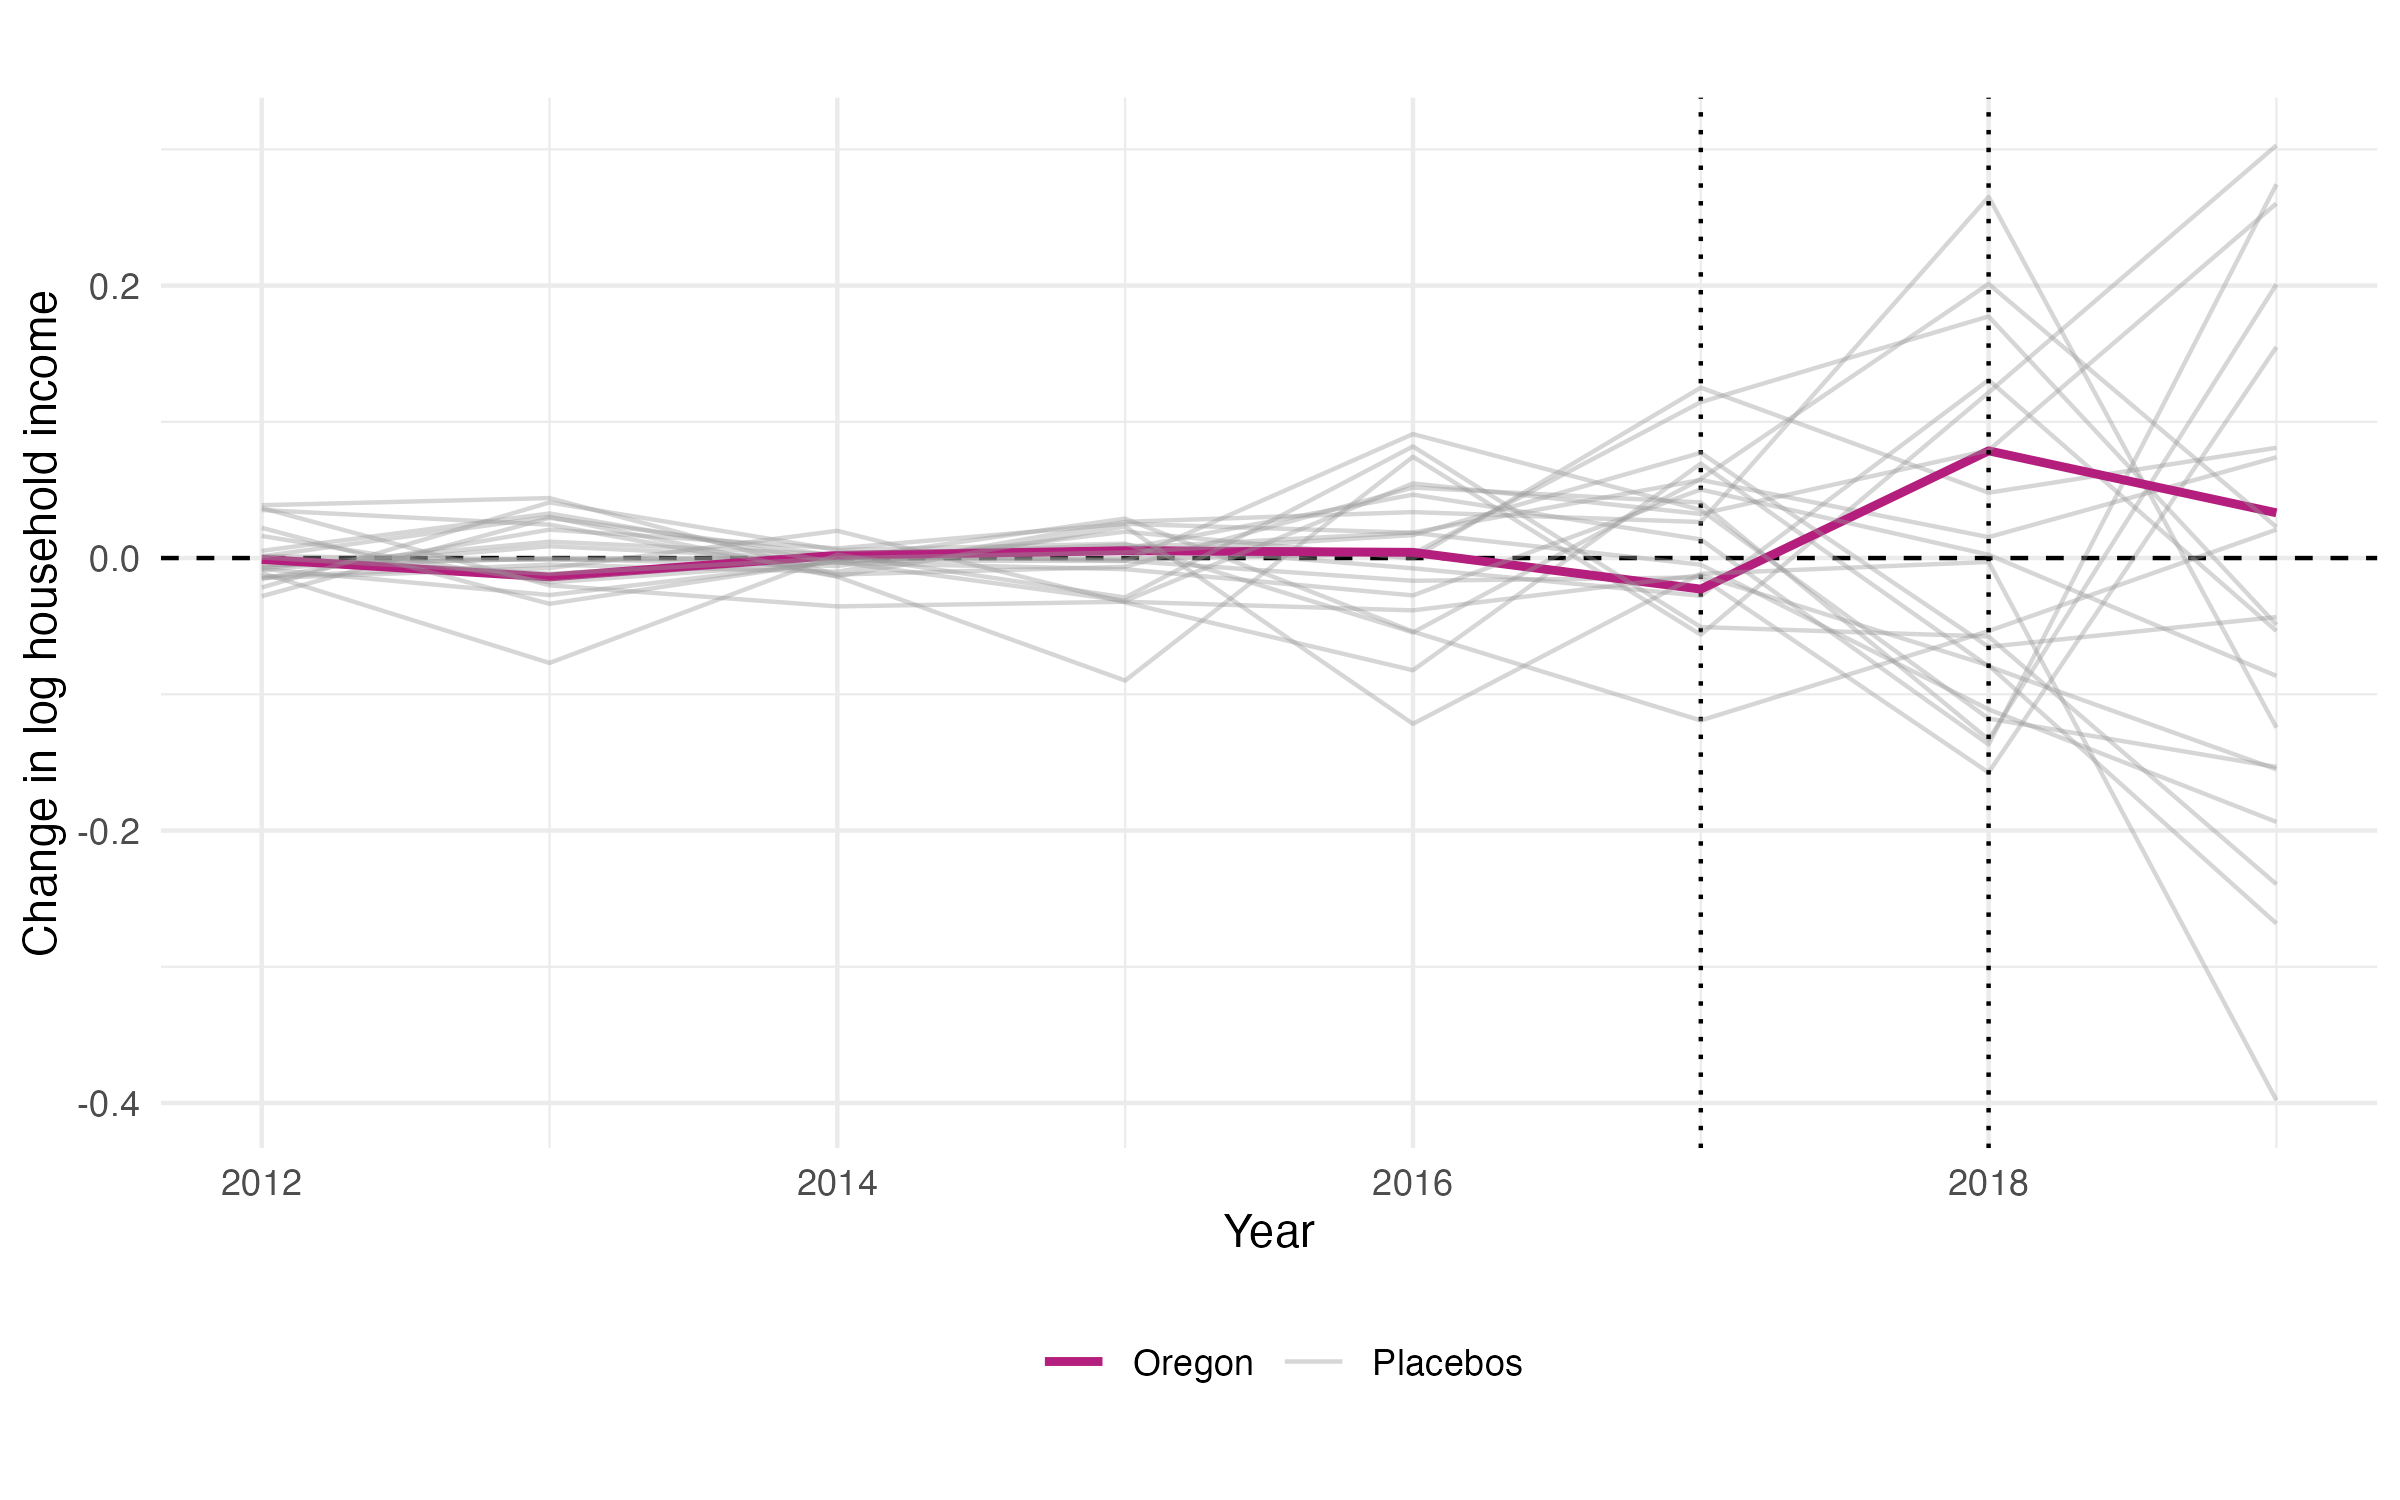
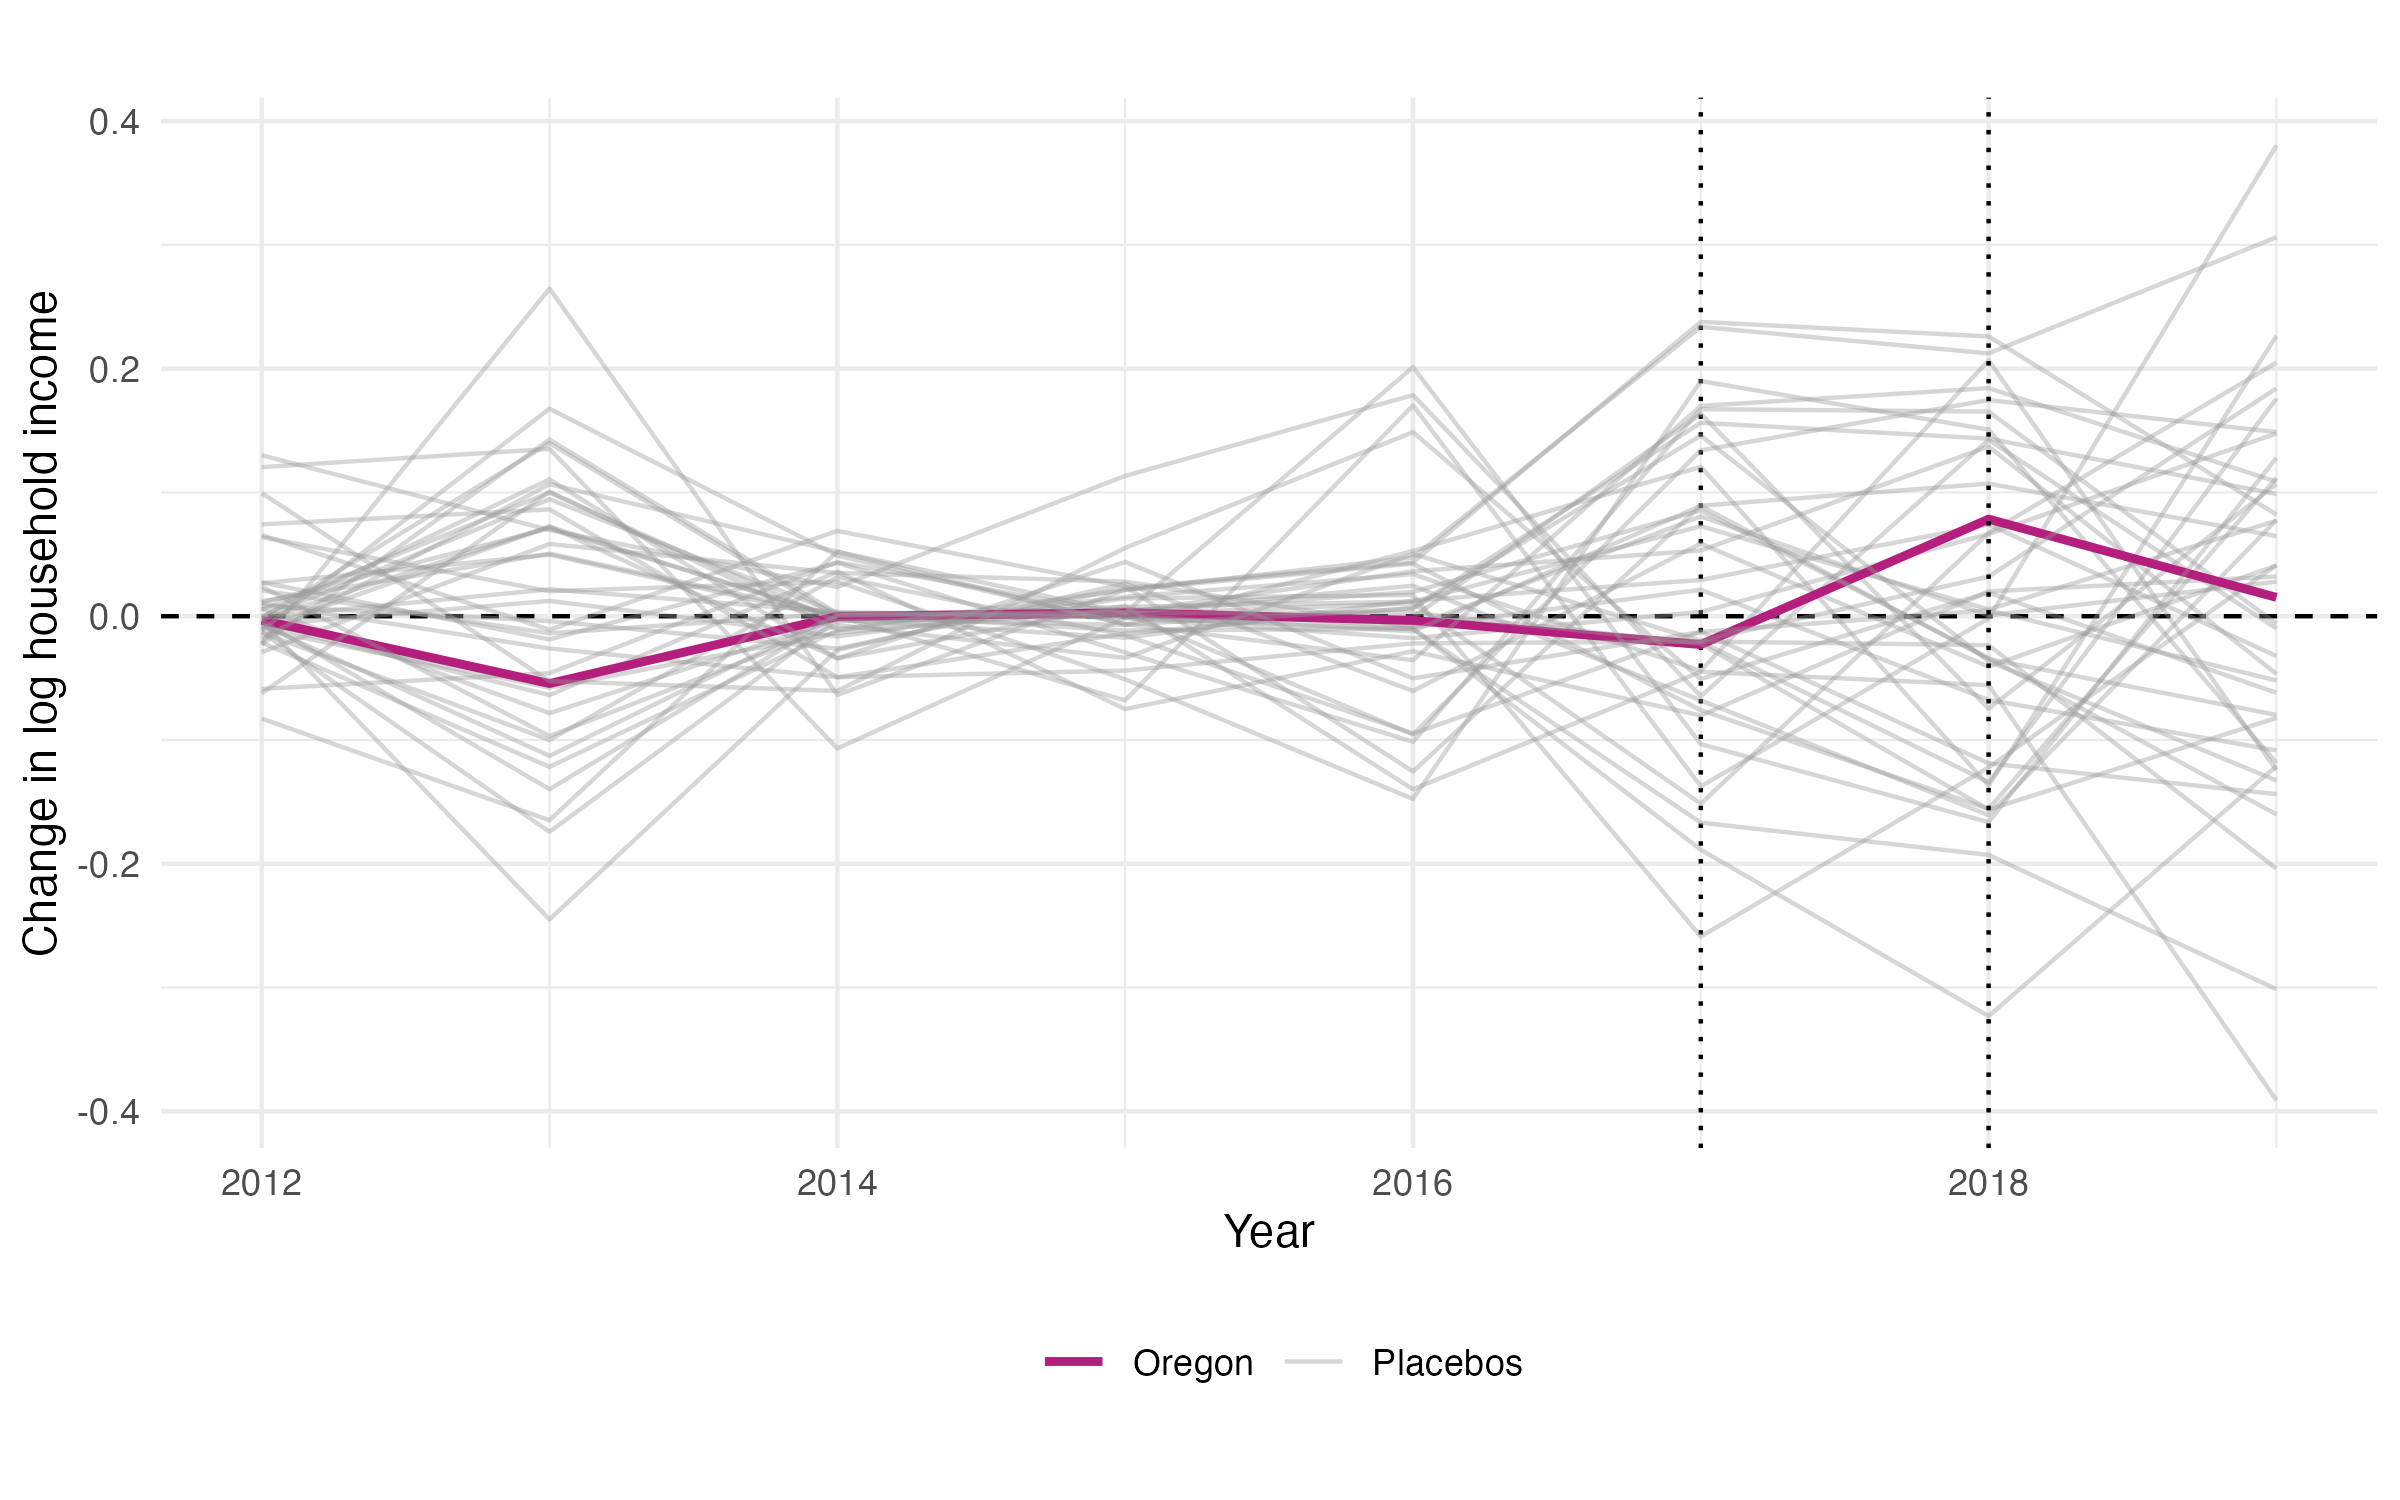
final draft for econ 436-1

diff --git a/analysis/output/balance_table.tex b/analysis/output/balance_table.tex
@@ -1,27 +1,27 @@
 
 % Table created by stargazer v.5.2.3 by Marek Hlavac, Social Policy Institute. E-mail: marek.hlavac at gmail.com
-% Date and time: Mon, Dec 19, 2022 - 22:28:16
+% Date and time: Sat, Dec 24, 2022 - 16:50:27
 \begin{table}[!htbp] \centering 
   \caption{} 
   \label{} 
-\begin{tabular}{@{\extracolsep{5pt}} cccc} 
+\begin{tabular}{@{\extracolsep{5pt}} ccccc} 
 \\[-1.8ex]\hline 
 \hline \\[-1.8ex] 
-Variable & Real Oregon & Synthetic Oregon & Unweighted Donor Sample \\ 
+Variable & Real Oregon & Synthetic Oregon (income) & Synthetic Oregon (jobs) & Unweighted Donor Sample \\ 
 \hline \\[-1.8ex] 
-Share workers in affected industry & 0.17 & 0.17 & 0.156 \\ 
-Log household income (all workers) & 10.821 & 10.744 & 10.723 \\ 
-Unemployment rate & 0.061 & 0.054 & 0.053 \\ 
-Log household income (affected workers) - 2012 & 10.875 & 10.876 & 10.834 \\ 
-Log household income (affected workers) - 2013 & 10.818 & 10.832 & 10.842 \\ 
-Log household income (affected workers) - 2014 & 10.963 & 10.961 & 10.887 \\ 
-Log household income (affected workers) - 2015 & 10.964 & 10.959 & 10.896 \\ 
-Log household income (affected workers) - 2016 & 10.992 & 10.988 & 10.948 \\ 
-Share affected workers with multipe jobs - 2012 & 0.063 & 0.063 & 0.058 \\ 
-Share affected workers with multipe jobs - 2013 & 0.06 & 0.06 & 0.062 \\ 
-Share affected workers with multipe jobs - 2014 & 0.048 & 0.049 & 0.062 \\ 
-Share affected workers with multipe jobs - 2015 & 0.02 & 0.024 & 0.057 \\ 
-Share affected workers with multipe jobs - 2016 & 0.09 & 0.09 & 0.062 \\ 
+Share workers in affected industry & 0.17 & 0.17 & 0.17 & 0.156 \\ 
+Log household income (all workers) & 10.821 & 10.722 & 10.82 & 10.727 \\ 
+Unemployment rate & 0.061 & 0.061 & 0.061 & 0.053 \\ 
+Log household income (affected workers) - 2012 & 10.875 & 10.878 & NA & 10.837 \\ 
+Log household income (affected workers) - 2013 & 10.818 & 10.872 & NA & 10.844 \\ 
+Log household income (affected workers) - 2014 & 10.963 & 10.964 & NA & 10.887 \\ 
+Log household income (affected workers) - 2015 & 10.964 & 10.961 & NA & 10.9 \\ 
+Log household income (affected workers) - 2016 & 10.992 & 10.995 & NA & 10.945 \\ 
+Share affected workers with multipe jobs - 2012 & 0.063 & NA & 0.063 & 0.059 \\ 
+Share affected workers with multipe jobs - 2013 & 0.06 & NA & 0.06 & 0.062 \\ 
+Share affected workers with multipe jobs - 2014 & 0.048 & NA & 0.054 & 0.063 \\ 
+Share affected workers with multipe jobs - 2015 & 0.02 & NA & 0.022 & 0.056 \\ 
+Share affected workers with multipe jobs - 2016 & 0.09 & NA & 0.09 & 0.063 \\ 
 \hline \\[-1.8ex] 
 \end{tabular} 
 \end{table} 

diff --git a/analysis/output/inc_weight_table.tex b/analysis/output/inc_weight_table.tex
@@ -1,6 +1,6 @@
 
 % Table created by stargazer v.5.2.3 by Marek Hlavac, Social Policy Institute. E-mail: marek.hlavac at gmail.com
-% Date and time: Mon, Dec 19, 2022 - 22:27:21
+% Date and time: Sat, Dec 24, 2022 - 02:20:40
 \begin{table}[!htbp] \centering 
   \caption{} 
   \label{} 
@@ -9,26 +9,27 @@
 \hline \\[-1.8ex] 
 State & Weight \\ 
 \hline \\[-1.8ex] 
-South Dakota & 0.146 \\ 
-Hawaii & 0.136 \\ 
-Rhode Island & 0.119 \\ 
-Nevada & 0.088 \\ 
-New Hampshire & 0.068 \\ 
-Louisiana & 0.06 \\ 
-New Mexico & 0.027 \\ 
-Colorado & 0.025 \\ 
-District of Columbia & 0.02 \\ 
-North Carolina & 0.02 \\ 
-Texas & 0.02 \\ 
-Delaware & 0.018 \\ 
-Kentucky & 0.017 \\ 
-Maryland & 0.017 \\ 
-Montana & 0.015 \\ 
-South Carolina & 0.013 \\ 
-North Dakota & 0.012 \\ 
-Indiana & 0.011 \\ 
-Florida & 0.01 \\ 
-Tennessee & 0.01 \\ 
+Rhode Island & 0.153 \\ 
+Alaska & 0.144 \\ 
+Nevada & 0.109 \\ 
+Delaware & 0.098 \\ 
+Hawaii & 0.098 \\ 
+Louisiana & 0.026 \\ 
+Michigan & 0.024 \\ 
+Tennessee & 0.023 \\ 
+Georgia & 0.021 \\ 
+North Carolina & 0.017 \\ 
+Ohio & 0.016 \\ 
+District of Columbia & 0.015 \\ 
+Florida & 0.014 \\ 
+Indiana & 0.014 \\ 
+Maine & 0.013 \\ 
+Montana & 0.013 \\ 
+Illinois & 0.012 \\ 
+Alabama & 0.011 \\ 
+Idaho & 0.01 \\ 
+Kentucky & 0.01 \\ 
+Colorado & 0.01 \\ 
 \hline \\[-1.8ex] 
 \end{tabular} 
 \end{table} 

diff --git a/analysis/output/jobs_weight_table.tex b/analysis/output/jobs_weight_table.tex
@@ -1,6 +1,6 @@
 
 % Table created by stargazer v.5.2.3 by Marek Hlavac, Social Policy Institute. E-mail: marek.hlavac at gmail.com
-% Date and time: Mon, Dec 19, 2022 - 22:28:15
+% Date and time: Sat, Dec 24, 2022 - 02:21:31
 \begin{table}[!htbp] \centering 
   \caption{} 
   \label{} 
@@ -9,14 +9,12 @@
 \hline \\[-1.8ex] 
 State & Weight \\ 
 \hline \\[-1.8ex] 
-Colorado & 0.46 \\ 
-Nevada & 0.215 \\ 
-District of Columbia & 0.106 \\ 
-Kentucky & 0.078 \\ 
-Tennessee & 0.046 \\ 
-Maryland & 0.038 \\ 
-New Hampshire & 0.027 \\ 
-New Jersey & 0.01 \\ 
+Colorado & 0.545 \\ 
+Nevada & 0.217 \\ 
+District of Columbia & 0.087 \\ 
+Maryland & 0.08 \\ 
+Kentucky & 0.039 \\ 
+Georgia & 0.024 \\ 
 \hline \\[-1.8ex] 
 \end{tabular} 
 \end{table} 

diff --git a/analysis/output/ate_table.tex b/analysis/output/ate_table.tex
@@ -1,6 +1,6 @@
 
 % Table created by stargazer v.5.2.3 by Marek Hlavac, Social Policy Institute. E-mail: marek.hlavac at gmail.com
-% Date and time: Mon, Dec 19, 2022 - 23:36:34
+% Date and time: Sat, Dec 24, 2022 - 02:21:33
 \begin{table}[!htbp] \centering 
   \caption{} 
   \label{} 
@@ -9,8 +9,8 @@
 \hline \\[-1.8ex] 
   & Log household income & Share working multiple jobs \\ 
 \hline \\[-1.8ex] 
-Average treatment effect & 0.0303 & -0.0152 \\ 
-RMSPE p-value & 0.1739 & 0.1304 \\ 
+Average treatment effect & 0.0353 & -0.0164 \\ 
+RMSPE p-value & 0.2708 & 0.0833 \\ 
 \hline \\[-1.8ex] 
 \end{tabular} 
 \end{table} 
